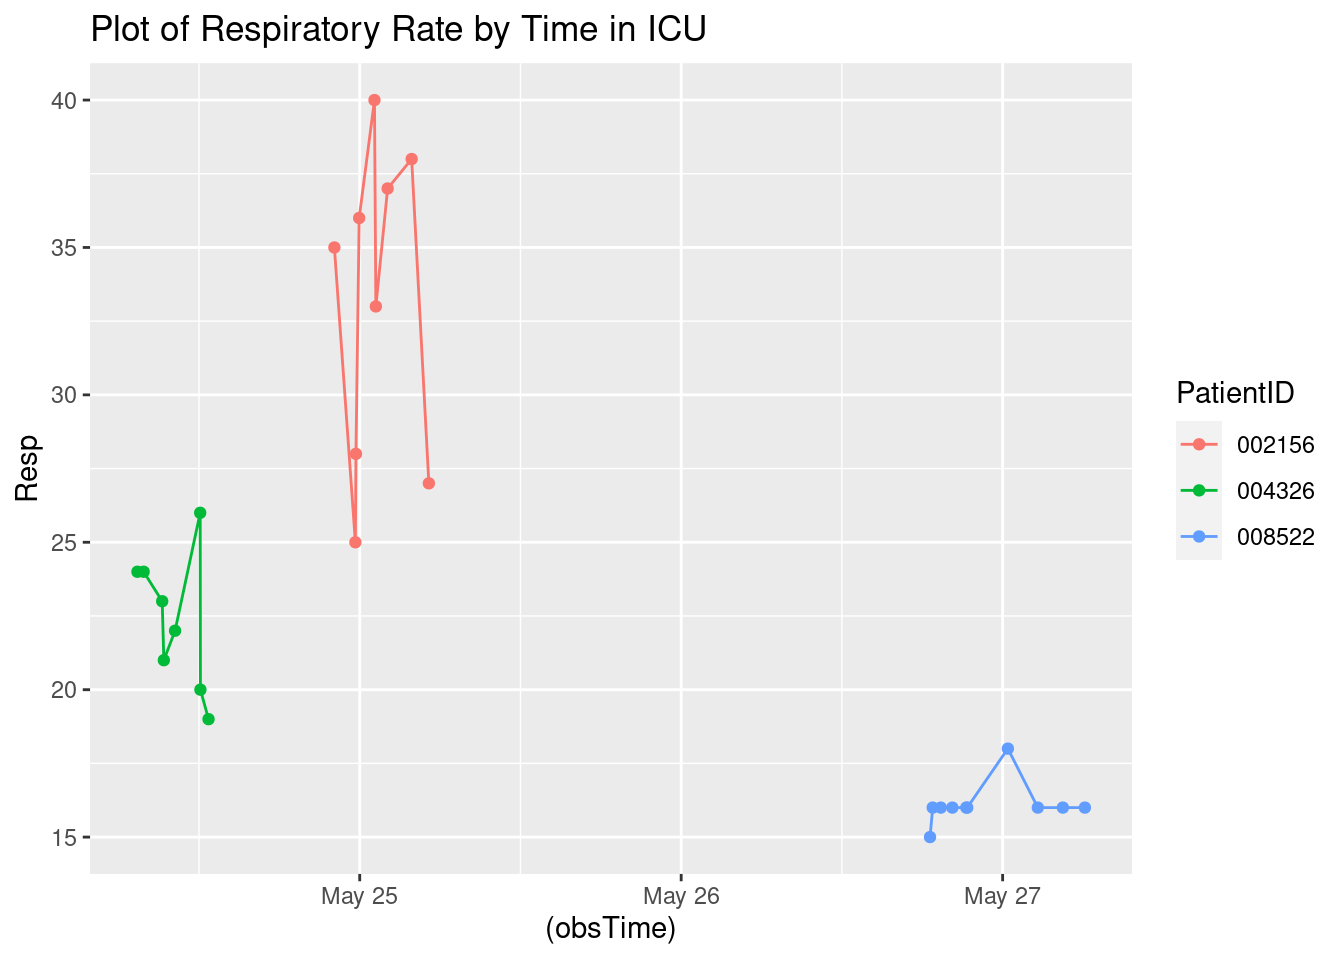
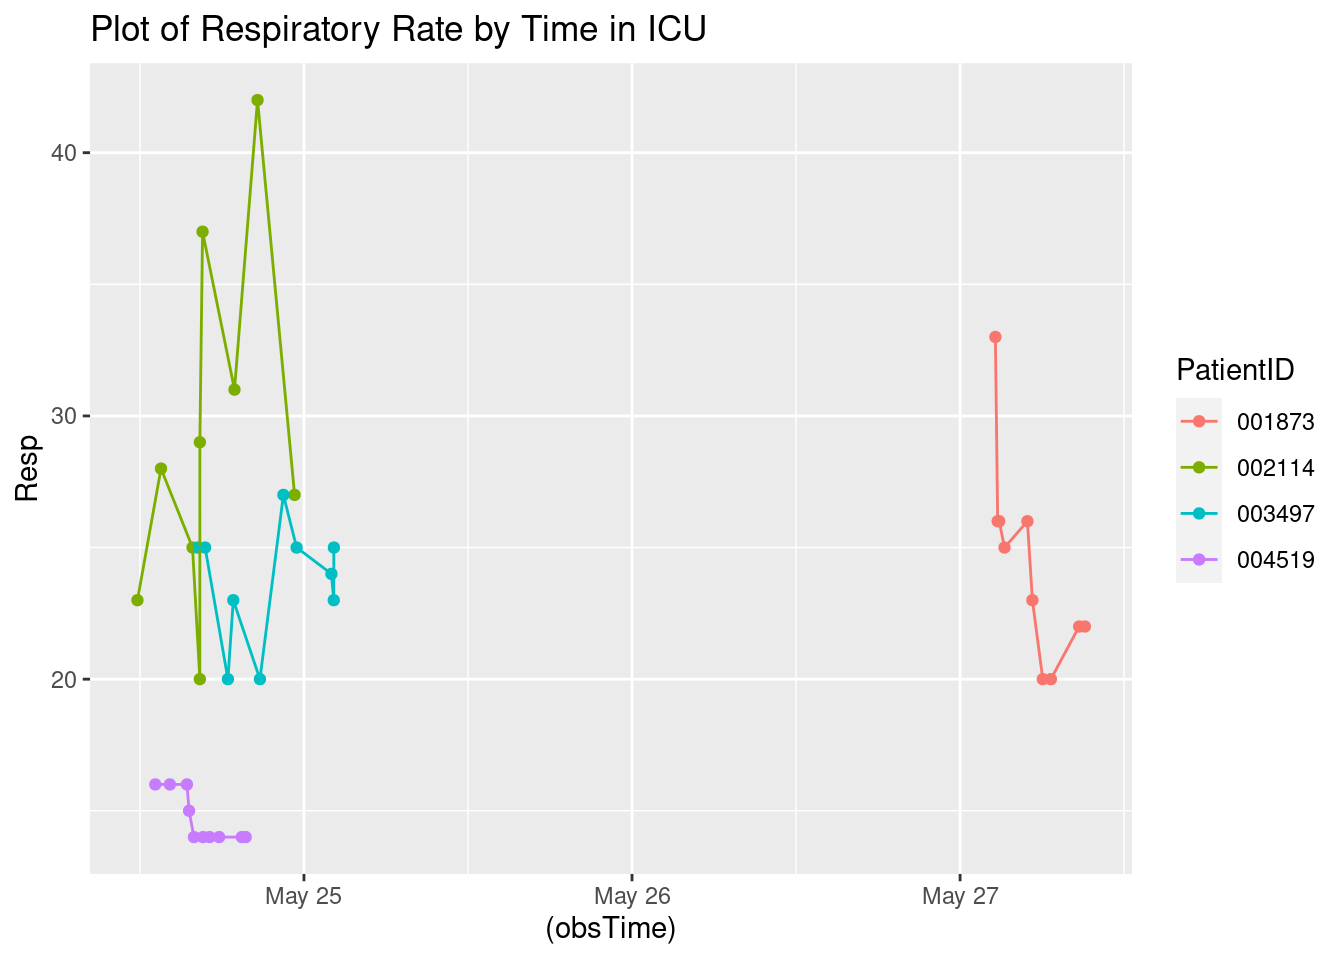
Updated report

diff --git a/A7.html b/A7.html
@@ -114,7 +114,7 @@ pre > code.sourceCode > span > a:first-child::before { text-decoration: underlin
 </div>
 <div class="sourceCode cell-code" id="cb4"><pre class="sourceCode r code-with-copy"><code class="sourceCode r"><span id="cb4-1"><a href="#cb4-1" aria-hidden="true" tabindex="-1"></a><span class="fu">toc</span>()</span></code><button title="Copy to Clipboard" class="code-copy-button"><i class="bi"></i></button></pre></div>
 <div class="cell-output cell-output-stdout">
-<pre><code>3.498 sec elapsed</code></pre>
+<pre><code>4.941 sec elapsed</code></pre>
 </div>
 <div class="sourceCode cell-code" id="cb6"><pre class="sourceCode r code-with-copy"><code class="sourceCode r"><span id="cb6-1"><a href="#cb6-1" aria-hidden="true" tabindex="-1"></a><span class="fu">tic</span>()</span>
 <span id="cb6-2"><a href="#cb6-2" aria-hidden="true" tabindex="-1"></a>test1<span class="ot">=</span><span class="fu">makeSepsisDataset</span>(<span class="at">n=</span><span class="dv">50</span>,<span class="at">read_fn =</span> <span class="st">"read_delim"</span>)</span>
@@ -124,7 +124,7 @@ pre > code.sourceCode > span > a:first-child::before { text-decoration: underlin
 </div>
 <div class="sourceCode cell-code" id="cb8"><pre class="sourceCode r code-with-copy"><code class="sourceCode r"><span id="cb8-1"><a href="#cb8-1" aria-hidden="true" tabindex="-1"></a><span class="fu">toc</span>()</span></code><button title="Copy to Clipboard" class="code-copy-button"><i class="bi"></i></button></pre></div>
 <div class="cell-output cell-output-stdout">
-<pre><code>14.803 sec elapsed</code></pre>
+<pre><code>19.39 sec elapsed</code></pre>
 </div>
 <div class="sourceCode cell-code" id="cb10"><pre class="sourceCode r code-with-copy"><code class="sourceCode r"><span id="cb10-1"><a href="#cb10-1" aria-hidden="true" tabindex="-1"></a><span class="co"># n=100</span></span>
 <span id="cb10-2"><a href="#cb10-2" aria-hidden="true" tabindex="-1"></a><span class="fu">tic</span>()</span>
@@ -135,7 +135,7 @@ pre > code.sourceCode > span > a:first-child::before { text-decoration: underlin
 </div>
 <div class="sourceCode cell-code" id="cb12"><pre class="sourceCode r code-with-copy"><code class="sourceCode r"><span id="cb12-1"><a href="#cb12-1" aria-hidden="true" tabindex="-1"></a><span class="fu">toc</span>()</span></code><button title="Copy to Clipboard" class="code-copy-button"><i class="bi"></i></button></pre></div>
 <div class="cell-output cell-output-stdout">
-<pre><code>5.665 sec elapsed</code></pre>
+<pre><code>8.586 sec elapsed</code></pre>
 </div>
 <div class="sourceCode cell-code" id="cb14"><pre class="sourceCode r code-with-copy"><code class="sourceCode r"><span id="cb14-1"><a href="#cb14-1" aria-hidden="true" tabindex="-1"></a><span class="fu">tic</span>()</span>
 <span id="cb14-2"><a href="#cb14-2" aria-hidden="true" tabindex="-1"></a>test1<span class="ot">=</span><span class="fu">makeSepsisDataset</span>(<span class="at">n=</span><span class="dv">100</span>,<span class="at">read_fn =</span> <span class="st">"read_delim"</span>)</span>
@@ -145,7 +145,7 @@ pre > code.sourceCode > span > a:first-child::before { text-decoration: underlin
 </div>
 <div class="sourceCode cell-code" id="cb16"><pre class="sourceCode r code-with-copy"><code class="sourceCode r"><span id="cb16-1"><a href="#cb16-1" aria-hidden="true" tabindex="-1"></a><span class="fu">toc</span>()</span></code><button title="Copy to Clipboard" class="code-copy-button"><i class="bi"></i></button></pre></div>
 <div class="cell-output cell-output-stdout">
-<pre><code>23.517 sec elapsed</code></pre>
+<pre><code>33.65 sec elapsed</code></pre>
 </div>
 <div class="sourceCode cell-code" id="cb18"><pre class="sourceCode r code-with-copy"><code class="sourceCode r"><span id="cb18-1"><a href="#cb18-1" aria-hidden="true" tabindex="-1"></a><span class="co"># n=500</span></span>
 <span id="cb18-2"><a href="#cb18-2" aria-hidden="true" tabindex="-1"></a><span class="fu">tic</span>()</span>
@@ -156,7 +156,7 @@ pre > code.sourceCode > span > a:first-child::before { text-decoration: underlin
 </div>
 <div class="sourceCode cell-code" id="cb20"><pre class="sourceCode r code-with-copy"><code class="sourceCode r"><span id="cb20-1"><a href="#cb20-1" aria-hidden="true" tabindex="-1"></a><span class="fu">toc</span>()</span></code><button title="Copy to Clipboard" class="code-copy-button"><i class="bi"></i></button></pre></div>
 <div class="cell-output cell-output-stdout">
-<pre><code>26.994 sec elapsed</code></pre>
+<pre><code>43.232 sec elapsed</code></pre>
 </div>
 <div class="sourceCode cell-code" id="cb22"><pre class="sourceCode r code-with-copy"><code class="sourceCode r"><span id="cb22-1"><a href="#cb22-1" aria-hidden="true" tabindex="-1"></a><span class="fu">tic</span>()</span>
 <span id="cb22-2"><a href="#cb22-2" aria-hidden="true" tabindex="-1"></a>test1<span class="ot">=</span><span class="fu">makeSepsisDataset</span>(<span class="at">n=</span><span class="dv">500</span>,<span class="at">read_fn =</span> <span class="st">"read_delim"</span>)</span>
@@ -166,7 +166,7 @@ pre > code.sourceCode > span > a:first-child::before { text-decoration: underlin
 </div>
 <div class="sourceCode cell-code" id="cb24"><pre class="sourceCode r code-with-copy"><code class="sourceCode r"><span id="cb24-1"><a href="#cb24-1" aria-hidden="true" tabindex="-1"></a><span class="fu">toc</span>()</span></code><button title="Copy to Clipboard" class="code-copy-button"><i class="bi"></i></button></pre></div>
 <div class="cell-output cell-output-stdout">
-<pre><code>116.895 sec elapsed</code></pre>
+<pre><code>167.337 sec elapsed</code></pre>
 </div>
 </div>
 <p><strong>Task 3</strong></p>
@@ -192,7 +192,7 @@ pre > code.sourceCode > span > a:first-child::before { text-decoration: underlin
 <span id="cb28-4"><a href="#cb28-4" aria-hidden="true" tabindex="-1"></a></span>
 <span id="cb28-5"><a href="#cb28-5" aria-hidden="true" tabindex="-1"></a><span class="fu">Sys.time</span>()</span></code><button title="Copy to Clipboard" class="code-copy-button"><i class="bi"></i></button></pre></div>
 <div class="cell-output cell-output-stdout">
-<pre><code>[1] "2023-05-24 07:24:17 UTC"</code></pre>
+<pre><code>[1] "2023-05-24 08:25:37 UTC"</code></pre>
 </div>
 <div class="sourceCode cell-code" id="cb30"><pre class="sourceCode r code-with-copy"><code class="sourceCode r"><span id="cb30-1"><a href="#cb30-1" aria-hidden="true" tabindex="-1"></a>dfnew <span class="ot">&lt;-</span> df <span class="sc">%&gt;%</span></span>
 <span id="cb30-2"><a href="#cb30-2" aria-hidden="true" tabindex="-1"></a>  <span class="fu">subset</span>(SepsisLabel<span class="sc">==</span><span class="dv">1</span>)</span>
@@ -221,31 +221,40 @@ pre > code.sourceCode > span > a:first-child::before { text-decoration: underlin
 </thead>
 <tbody>
 <tr class="odd">
-<td style="text-align: left;">002156</td>
-<td style="text-align: right;">23</td>
-<td style="text-align: right;">113</td>
+<td style="text-align: left;">001873</td>
+<td style="text-align: right;">74</td>
+<td style="text-align: right;">70</td>
+<td style="text-align: right;">NA</td>
+<td style="text-align: right;">22</td>
+<td style="text-align: right;">1</td>
+<td style="text-align: left;">2023-05-27 09:07:45</td>
+</tr>
+<tr class="even">
+<td style="text-align: left;">002114</td>
+<td style="text-align: right;">15</td>
+<td style="text-align: right;">110</td>
 <td style="text-align: right;">NA</td>
 <td style="text-align: right;">27</td>
 <td style="text-align: right;">1</td>
-<td style="text-align: left;">2023-05-25 05:09:44</td>
-</tr>
-<tr class="even">
-<td style="text-align: left;">004326</td>
-<td style="text-align: right;">7</td>
-<td style="text-align: right;">116</td>
-<td style="text-align: right;">NA</td>
-<td style="text-align: right;">19</td>
-<td style="text-align: right;">1</td>
-<td style="text-align: left;">2023-05-24 12:42:45</td>
+<td style="text-align: left;">2023-05-24 23:18:50</td>
 </tr>
 <tr class="odd">
-<td style="text-align: left;">008522</td>
-<td style="text-align: right;">72</td>
-<td style="text-align: right;">95</td>
-<td style="text-align: right;">NA</td>
-<td style="text-align: right;">16</td>
+<td style="text-align: left;">003497</td>
+<td style="text-align: right;">18</td>
+<td style="text-align: right;">91</td>
+<td style="text-align: right;">36.83</td>
+<td style="text-align: right;">25</td>
 <td style="text-align: right;">1</td>
-<td style="text-align: left;">2023-05-27 06:08:27</td>
+<td style="text-align: left;">2023-05-25 02:11:17</td>
+</tr>
+<tr class="even">
+<td style="text-align: left;">004519</td>
+<td style="text-align: right;">13</td>
+<td style="text-align: right;">59</td>
+<td style="text-align: right;">36.78</td>
+<td style="text-align: right;">14</td>
+<td style="text-align: right;">1</td>
+<td style="text-align: left;">2023-05-24 19:44:05</td>
 </tr>
 </tbody>
 </table>
